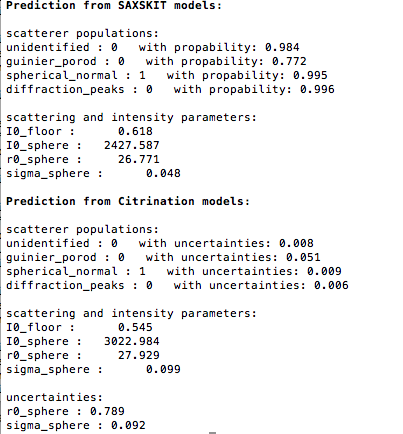
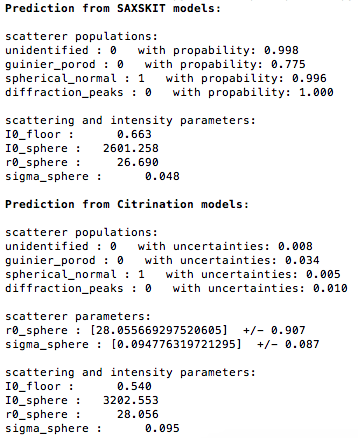
predict.py script is updated

diff --git a/examples/predict.py b/examples/predict.py
@@ -78,7 +78,3 @@ for k,v in params.items():
     for n in range(len(v)):
         print(" %10.3f" % (v[n]) )
 print()
-
-print("uncertainties: ")
-for k,v in uncertainties.items():
-    print(k, ": %1.3f" % (v))
